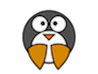
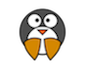
Updated penguin image. Created a new player after removal from list.

diff --git a/main.py b/main.py
@@ -92,22 +92,31 @@ class Hole(pygame.sprite.Sprite):
         self.rect.y = (box_length + margin) * y + margin
 
     def check_hole_collision(self):
-       pygame.sprite.spritecollide(self, all_sprites_list, True)
+       hole_hit_list = pygame.sprite.spritecollide(self, all_sprites_list, True)
+       if len(hole_hit_list) > 0:
+           return True
 
-# class Rock(pygame.sprite.Sprite):
-#     def __init__(self, x, y):
-#         super(Rock, self).__init__()
+class Rock(pygame.sprite.Sprite):
+    def __init__(self, x, y):
+        super(Rock, self).__init__()
     
-#         self.image = pygame.Surface([box_length, box_length])
-#         self.image.fill(BLACK)
-#         self.rect = self.image.get_rect()
+        self.image = pygame.Surface([box_length, box_length])
+        self.image.fill(ROCK)
+        self.rect = self.image.get_rect()
 
-#         self.rect.x = (box_length + margin) * x + margin
-#         self.rect.y = (box_length + margin) * y + margin
+        self.rect.x = (box_length + margin) * x + margin
+        self.rect.y = (box_length + margin) * y + margin
 
-#     def check_hole_collision(self):
-#        pygame.sprite.spritecollide(self, all_sprites_list, True)
-            
+    def check_rock_collision(self):
+        rock_hit_list = pygame.sprite.spritecollide(self, all_sprites_list, False)
+        if len(rock_hit_list) > 0:
+            if player.move_horizontal != 0:
+                player.rect.x -= player.move_horizontal
+            if player.move_vertical != 0:
+                player.rect.y -= player.move_vertical
+            player.move_horizontal = 0
+            player.move_vertical = 0
+            player.update()       
     
 #Setup board      
 board = Board()
@@ -121,6 +130,11 @@ all_sprites_list.add(player)
 hole = Hole(0, 2)
 hole_list = pygame.sprite.Group()
 hole_list.add(hole)
+
+#Create Rock
+rock = Rock(2, 5)
+rock_list = pygame.sprite.Group()
+rock_list.add(rock)
 
 #Setup tempo (60 frames per second)
 clock = pygame.time.Clock()
@@ -136,14 +150,21 @@ while not done:
     
     player.update()
     hole_list.update()
+    rock_list.update()
 
-    hole.check_hole_collision()
+    deleted = hole.check_hole_collision()
+    if deleted:
+        player = Player(2, 2)
+        all_sprites_list.add(player)
+
+    rock.check_rock_collision()
     #draw grid to the screen
     board.draw_board()
 
     #draw sprites to the screen
     all_sprites_list.draw(screen)
     hole_list.draw(screen)
+    rock_list.draw(screen)
     #update screen
     pygame.display.update()
     
